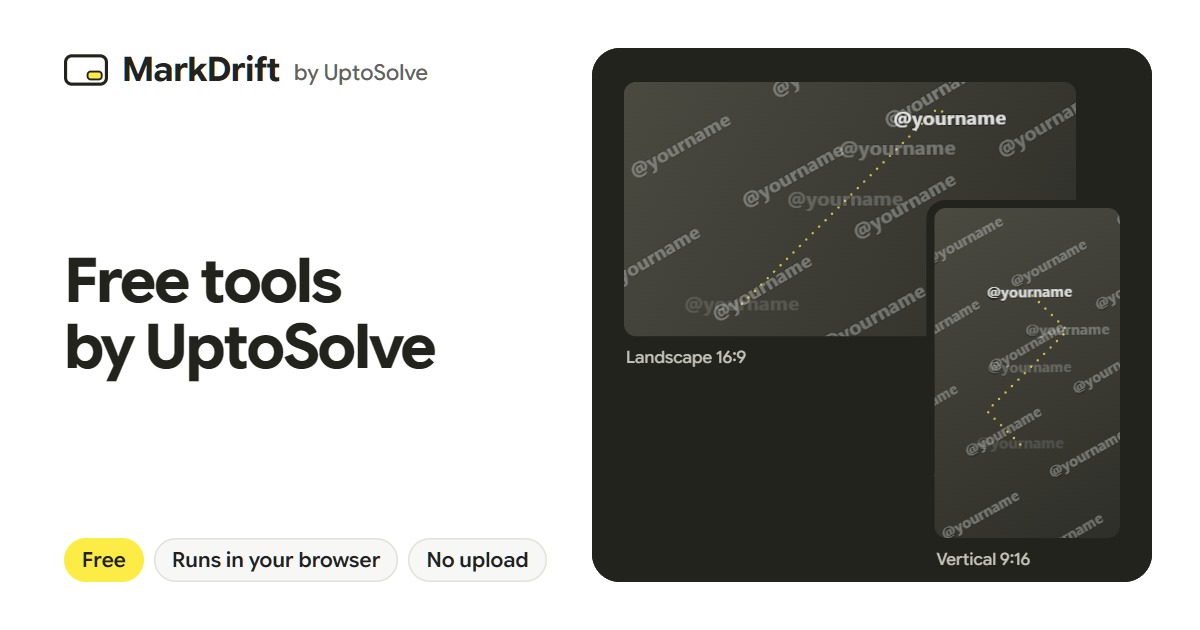
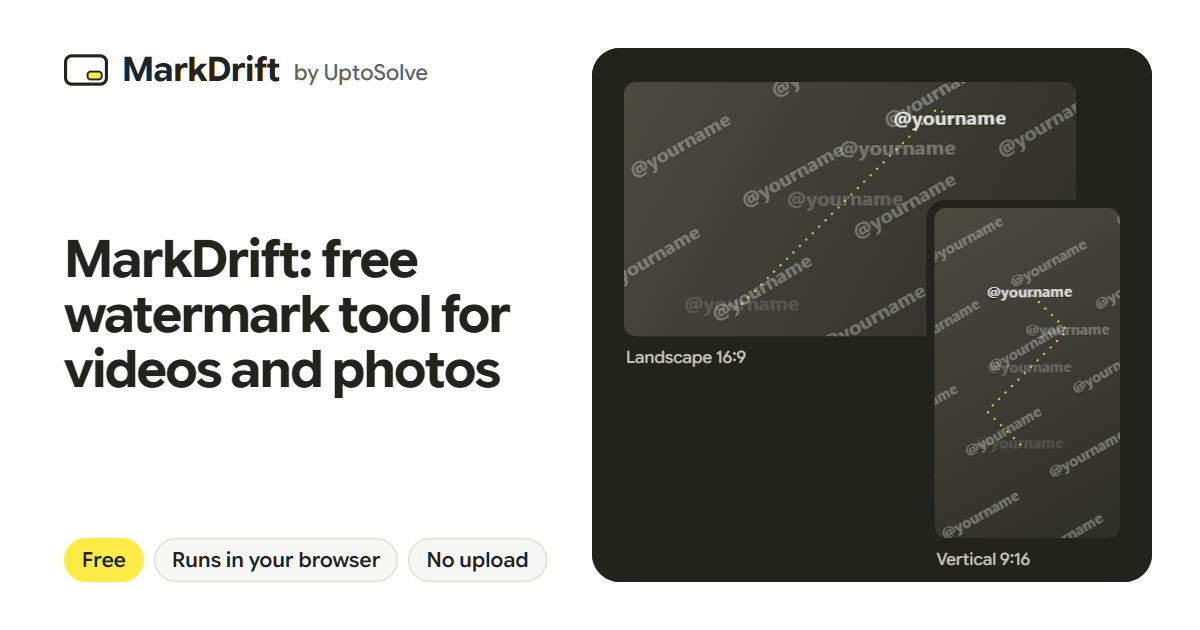
Search and speed fixes, Firefox MP4 retry
- One named WebApplication (MarkDrift) in structured data; tool pages and
  guides point at it
- 301 redirects for URLs typed without the trailing slash
- Long cache headers for fonts, OG images, favicon and sitemap
- Load the video engine when someone reaches for the drop zone, not at idle
- Throttle the hero demo and stop reading layout every frame
- Hub page leads with what MarkDrift is; tool pages name it up front
- Firefox: if the hardware encoder refuses H.264, retry in software before
  falling back to WebM

Changed region(s): [[0.0308, 0.3619, 0.4317, 0.6333]]

diff --git a/content/tools.html b/content/tools.html
@@ -1,12 +1,25 @@
 <h2>MarkDrift: the watermark tool</h2>
-<p>MarkDrift puts your name or logo on videos and photos, one file or a whole batch, right in your browser. We built it for creators and small shops who post a lot of short video and want their name on every clip. The tools we looked at first either charged credits, added their own watermark, or made you upload your files. This one does none of that. Your files stay on your device, and the result carries your mark and no mark of ours.</p>
+<p>MarkDrift is a free, open-source (MIT) watermark tool by UptoSolve that adds moving, tiled or corner watermarks to videos and photos, one file or a whole batch, entirely in your browser with nothing uploaded.</p>
+<p>We built it for creators and small shops who post a lot of short video and want their name on every clip. The tools we looked at first either charged credits, added their own watermark, or made you upload your files. MarkDrift charges no credits, adds no watermark of its own and never uploads your files.</p>
+<h2>MarkDrift at a glance</h2>
+<ul>
+<li><strong>Price:</strong> free, with no account and no sign-up.</li>
+<li><strong>Upload:</strong> none. Videos and photos are processed by your browser on your own device.</li>
+<li><strong>Video in:</strong> MP4, MOV, WebM and MKV. <strong>Video out:</strong> H.264 MP4 (WebM if the browser can't make MP4).</li>
+<li><strong>Photos in:</strong> JPG, PNG and WebP. <strong>Out:</strong> the same format, or one ZIP for a batch.</li>
+<li><strong>Watermark:</strong> your text or a PNG, SVG, WebP or JPG logo.</li>
+<li><strong>Styles:</strong> Hardest to remove (faint tiles plus a moving mark), Moving, Tiled, Jumping and Corner.</li>
+<li><strong>Batches:</strong> no limit on the number of files; vertical and landscape videos can be mixed.</li>
+<li><strong>Browsers:</strong> Chrome and Edge 94+, Safari 17+, Firefox 130+ on desktop.</li>
+<li><strong>Source code:</strong> open source under the MIT licence at <a href="https://github.com/uptosolve/markdrift">github.com/uptosolve/markdrift</a>.</li>
+</ul>
 <p>Each page below opens the same tool, set up for a different job, with its own how-to underneath.</p>
 <ul>
 <li><a href="/tools/watermark-video/">Add a watermark to a video</a>: the main tool. Text or logo, five styles, MP4 out.</li>
 <li><a href="/tools/moving-watermark/">Moving watermark maker</a>: a mark that glides, bounces or jumps around the frame, so a crop can't remove it.</li>
 <li><a href="/tools/batch-watermark-videos/">Watermark many videos at once</a>: one setting for a whole folder of Reels or TikToks, vertical and landscape mixed.</li>
 <li><a href="/tools/watermark-photos/">Watermark photos</a>: tiled or corner marks on JPG, PNG and WebP, with batches returned as a ZIP.</li>
-<li><a href="/tools/add-logo-to-video/">Add a logo to a video</a>: your PNG logo in a corner, turned white if you like.</li>
+<li><a href="/tools/add-logo-to-video/">Add a logo to a video</a>: a PNG, SVG, WebP or JPG logo in a corner, turned white if you like.</li>
 </ul>
 
 <h2>Guides</h2>

diff --git a/content/moving-watermark.html b/content/moving-watermark.html
@@ -1,5 +1,5 @@
 <h2>A watermark that won't stay put</h2>
-<p>A logo in the corner comes off with one crop. A mark that travels across the frame is a different problem for a reposter, because there's no strip of the picture it stays out of. Cropping it means cutting into the video, and blurring it means smearing a path through the whole clip.</p>
+<p>MarkDrift's moving watermark glides across the frame and bounces off the edges, so there's no corner to crop away. A logo in the corner comes off with one crop. A mark that travels across the frame is a different problem for a reposter, because there's no strip of the picture it stays out of. Cropping it means cutting into the video, and blurring it means smearing a path through the whole clip.</p>
 <p>This page opens the tool with "Moving" selected. Your name or logo glides across the frame and bounces off the edges, the way the old DVD screensaver logo did. Two other styles move as well, and each suits a different kind of video.</p>
 
 <h2>Three kinds of motion</h2>
@@ -21,7 +21,7 @@
 <h2>What "Extra protection" and "Shuffle" are for</h2>
 <p>Many removal tools work by tracking a watermark that looks the same in every frame. "Extra protection" gets in the way of that. The mark's size, angle and transparency change slightly and smoothly over time, so no two frames show exactly the same mark. Set it to zero for a perfectly steady mark, or turn it up for more variation.</p>
 <p>Every pattern is also built from a seed, so the path your mark takes is different from one pattern to the next. That means a removal mask someone builds for one of your videos won't line up with another one. If you don't like where the mark crosses on a particular clip, click "Shuffle" and the preview picks a new path straight away.</p>
-<p>Both make removal harder. Neither makes it impossible. A March 2026 test published by imagecrush.io found that current AI removers beat jitter and tiling on still images. That test covered photos, and we haven't seen a published test of moving marks on video, so treat any watermark as something that slows people down. It turns a quick crop into real work.</p>
+<p>Extra protection and Shuffle make a MarkDrift watermark harder to remove, but not impossible to remove. A March 2026 test published by imagecrush.io found that current AI removers beat jitter and tiling on still images. That test covered photos, and we haven't seen a published test of moving marks on video, so treat any watermark as something that slows people down. It turns a quick crop into real work.</p>
 
 <h2>When motion helps, and when to skip it</h2>
 <p>Go with a moving style when the clip is likely to be saved and reposted, and when the whole frame is the point: a dance, a recipe from above, a before-and-after, a clip from a live show. A reposter can't frame their way around a mark that visits every part of the picture.</p>

diff --git a/index.html b/index.html
@@ -67,7 +67,7 @@
 
       <div class="cart-list" id="cartList" hidden>
         <div class="cart-head">
-          <h2 id="cartTitle">Your files</h2>
+          <h3 id="cartTitle">Your files</h3>
           <div class="switch" role="tablist" aria-label="Show videos or photos">
             <button role="tab" class="tab" id="tab-video" aria-selected="true" data-tab="video">Videos</button>
             <button role="tab" class="tab" id="tab-image" aria-selected="false" data-tab="image">Photos</button>
@@ -87,7 +87,7 @@
         <p class="browser-note" id="browserNote" hidden><span data-icon="alert"></span><span>This browser can't make videos. Photos still work. For videos, use Chrome, Edge or Safari 17 or newer.</span></p>
 
         <section class="step" aria-labelledby="s1">
-          <h2 id="s1"><span class="n">1</span>Your watermark</h2>
+          <h3 id="s1"><span class="n">1</span>Your watermark</h3>
           <div class="seg" role="radiogroup" aria-label="Watermark type">
             <label><input type="radio" name="kind" value="text" data-key="kind" /><span>Text</span></label>
             <label><input type="radio" name="kind" value="image" data-key="kind" /><span>Logo</span></label>
@@ -115,7 +115,7 @@
         </section>
 
         <section class="step" aria-labelledby="s2">
-          <h2 id="s2"><span class="n">2</span>Style</h2>
+          <h3 id="s2"><span class="n">2</span>Style</h3>
           <div class="styles" role="radiogroup" aria-label="Style">
             <label class="style"><input type="radio" name="mode" value="combo" data-key="mode" />
               <span class="style-row">
@@ -160,7 +160,7 @@
         </section>
 
         <section class="step" aria-labelledby="s3">
-          <h2 id="s3"><span class="n">3</span>Size and strength</h2>
+          <h3 id="s3"><span class="n">3</span>Size and strength</h3>
           <div class="seg three" role="radiogroup" aria-label="Size" id="sizeSeg">
             <label><input type="radio" name="sizePreset" value="3.5" /><span>Small</span></label>
             <label><input type="radio" name="sizePreset" value="5" /><span>Medium</span></label>

diff --git a/src/style.css b/src/style.css
@@ -43,7 +43,7 @@ body {
 }
 [hidden] { display: none !important; }
 button, input, select, summary { font: inherit; color: inherit; }
-h2 { margin: 0; }
+h2, h3 { margin: 0; }
 ::selection { background: var(--accent); color: #23231e; }
 html { scrollbar-color: #c8c7bf transparent; }
 .order-body, .queue { scrollbar-width: thin; scrollbar-color: #c8c7bf transparent; }
@@ -117,7 +117,7 @@ input, textarea { caret-color: var(--ink); }
 /* ---------- the cart ---------- */
 .cart-list { border: 1px solid var(--line); border-radius: var(--r2); padding: 14px 14px 10px; }
 .cart-head { display: flex; align-items: center; gap: 12px; padding: 0 2px 4px; flex-wrap: wrap; }
-.cart-head h2 { font-size: 1rem; font-weight: 600; }
+.cart-head h2, .cart-head h3 { font-size: 1rem; font-weight: 600; }
 .cart-head .btn { margin-left: auto; }
 .cart-sum { margin: 0 2px 10px; color: var(--soft); font-size: 0.8125rem; }
 .switch { display: inline-flex; background: var(--field); border-radius: var(--r3); padding: 3px; }
@@ -168,7 +168,7 @@ input, textarea { caret-color: var(--ink); }
 .order-body { overflow-y: auto; padding: 4px 20px 8px; overscroll-behavior: contain; }
 .order-body.fade { -webkit-mask-image: linear-gradient(to bottom, #000 calc(100% - 36px), transparent); mask-image: linear-gradient(to bottom, #000 calc(100% - 36px), transparent); }
 .step { padding: 12px 0 14px; display: flex; flex-direction: column; gap: 10px; border-bottom: 1px solid var(--hair); }
-.step h2 { display: flex; align-items: center; gap: 10px; font-size: 1rem; font-weight: 600; letter-spacing: -0.01em; }
+.step h2, .step h3 { display: flex; align-items: center; gap: 10px; font-size: 1rem; font-weight: 600; letter-spacing: -0.01em; }
 .n {
   width: 22px; height: 22px; border-radius: var(--r3); background: var(--ink); color: var(--page);
   display: grid; place-items: center; font-size: 0.75rem; font-weight: 600; flex: none;

diff --git a/content/batch-watermark-videos.html b/content/batch-watermark-videos.html
@@ -1,5 +1,5 @@
 <h2>One watermark for the whole shoot</h2>
-<p>If you post every day, you rarely have one video to mark. You have fifteen Reels from Saturday's shoot, some filmed vertical, some landscape, a couple in 4K and a screen recording at 720p. This page sets the tool up for that job. Add them all, pick one set of settings, press one button, and walk away while they finish.</p>
+<p>MarkDrift can watermark many videos at once, for free, with one set of settings for the whole batch. If you post every day, you rarely have one video to mark. You have fifteen Reels from Saturday's shoot, some filmed vertical, some landscape, a couple in 4K and a screen recording at 720p. This page sets the tool up for that job. Add them all, pick one set of settings, press one button, and walk away while they finish.</p>
 <p>You don't have to fix anything per file. Every size in the tool is measured against the short side of each frame, so a Medium mark looks the same on a 720p vertical clip as on a 4K landscape one. Phone videos saved with rotation info come out the right way up.</p>
 
 <h2>How to watermark many videos at once</h2>
@@ -27,7 +27,7 @@
 <h2>Batch questions</h2>
 <details>
 <summary>How many videos can I do at once?</summary>
-<p>There's no fixed number in the tool. The real limits are time and disk space on your device. Long batches of 4K footage are better on a computer than on a phone.</p>
+<p>MarkDrift has no limit on the number of files in a batch. The practical limits are time and disk space on your device. Long batches of 4K footage are better on a computer than on a phone.</p>
 </details>
 <details>
 <summary>Why does Chrome ask me to pick a folder?</summary>

diff --git a/src/main.js b/src/main.js
@@ -688,8 +688,14 @@ function demoFrame(ctx, x, y, w, h, t, s, i, label) {
   ctx.textBaseline = 'top';
   ctx.fillText(label, x, y + h + labelPx * 0.7);
 }
+let demoRect = null;
+let demoLast = 0;
+if ('ResizeObserver' in window) new ResizeObserver(() => { demoRect = null; }).observe(el.demo);
 function drawDemo() {
-  const rect = el.demo.getBoundingClientRect();
+  const now = performance.now();
+  if (now - demoLast < 33) return;
+  demoLast = now;
+  const rect = demoRect || (demoRect = el.demo.getBoundingClientRect());
   if (!rect.width) return;
   const dpr = Math.min(2, window.devicePixelRatio || 1);
   const W = Math.round(rect.width * dpr), H = Math.round(rect.height * dpr);
@@ -1302,4 +1308,6 @@ restoreLogo().then((ok) => {
 });
 
 // warm up the video engine in the background so the first drop feels instant
-(window.requestIdleCallback || ((f) => setTimeout(f, 1500)))(() => { if (canEncode) videoEngine().catch(() => {}); });
+const warmEngine = () => { if (canEncode) videoEngine().catch(() => {}); };
+for (const ev of ['pointerenter', 'focusin', 'touchstart']) el.drop.addEventListener(ev, warmEngine, { once: true, passive: true });
+document.addEventListener('dragenter', warmEngine, { once: true });

diff --git a/content/watermark-video.html b/content/watermark-video.html
@@ -1,5 +1,5 @@
 <h2>Put your name on a video before someone else posts it</h2>
-<p>Type your name or @handle, drop in a video, and you get back an MP4 with your mark in every frame. The tool above does the whole job inside this browser tab. Your video never goes to a server, you don't make an account, and the file that comes back carries your mark and nothing else.</p>
+<p>MarkDrift adds your name or logo to a video for free. Type your name or @handle, drop in a video, and you get back an MP4 with your mark in every frame. The tool above does the whole job inside this browser tab. Your video never goes to a server, you don't make an account, and the file that comes back carries your mark and nothing else.</p>
 <p>It opens on the "Hardest to remove" style: faint copies of your mark spread over the whole frame, plus one clear copy that drifts around. That's the style we'd use for anything posted publicly, because a mark parked in a corner is the first thing a reposter crops off. If you only want a neat logo in one spot, switch to "Corner". It takes the same few clicks.</p>
 
 <h2>How to add a watermark to a video</h2>

diff --git a/content/watermark-photos.html b/content/watermark-photos.html
@@ -1,5 +1,5 @@
 <h2>Mark a whole set of product photos in one go</h2>
-<p>Product shots, portfolio images, a carousel for Instagram: photos get lifted even more easily than videos, because one screenshot is all it takes. This page opens the tool on the "Photos" tab with the "Tiled" style, which repeats your name or logo across the whole picture. A crop can't cut a tiled mark out, because there's no clean edge of the image to crop to.</p>
+<p>MarkDrift watermarks photos for free, one at a time or a whole batch returned as a ZIP. Product shots, portfolio images, a carousel for Instagram: photos get lifted even more easily than videos, because one screenshot is all it takes. This page opens the tool on the "Photos" tab with the "Tiled" style, which repeats your name or logo across the whole picture. A crop can't cut a tiled mark out, because there's no clean edge of the image to crop to.</p>
 <p>Drop in one photo and you get one photo back. Drop in forty and they come back together in a single ZIP, each one marked with the same settings.</p>
 
 <h2>How to watermark photos in a batch</h2>

diff --git a/content/add-logo-to-video.html b/content/add-logo-to-video.html
@@ -1,5 +1,5 @@
 <h2>Your logo on the video, and no one else's</h2>
-<p>A lot of "free" video editors will happily put your logo on a clip and then stamp their own logo next to it unless you pay. This one doesn't. The tool above opens with "Logo" selected and the "Corner" style set to the bottom right, which is the classic spot for a brand mark. You choose your logo file, check the preview, and download a video whose only logo is yours.</p>
+<p>MarkDrift adds your logo to a video for free and adds no logo of its own. A lot of "free" video editors will happily put your logo on a clip and then stamp their own logo next to it unless you pay. This one doesn't. The tool above opens with "Logo" selected and the "Corner" style set to the bottom right, which is the classic spot for a brand mark. You choose your logo file, check the preview, and download a video whose only logo is yours.</p>
 <p>It all runs in your browser, so your footage and your logo stay on your device. There's no account and nothing to pay for.</p>
 
 <h2>How to add a logo to a video</h2>

diff --git a/src/video.js b/src/video.js
@@ -127,6 +127,13 @@ export async function exportVideo(file, settings, logo, { onProgress, writable, 
   checkCancel();
   let ext = 'mp4';
   let mime = 'video/mp4';
+  // a busy hardware encoder can refuse H.264 for a moment; software usually still takes it
+  if ((!built.conversion.isValid || !hasVideo(built.conversion)) && !softwareEncode) {
+    built.input.dispose?.();
+    preferSoftwareDecoding();
+    built = await buildConversion(file, settings, logo, mp4, writable);
+    checkCancel();
+  }
   if (!built.conversion.isValid || !hasVideo(built.conversion)) {
     built.input.dispose?.();
     if (writable) {

diff --git a/vite.config.js b/vite.config.js
@@ -71,6 +71,8 @@ const siteExtras = {
   closeBundle() {
     const headers = path.join(DIST, 'tools', '_headers');
     if (fs.existsSync(headers)) fs.renameSync(headers, path.join(DIST, '_headers'));
+    const redirects = path.join(SITE, '.meta', '_redirects');
+    if (fs.existsSync(redirects)) fs.copyFileSync(redirects, path.join(DIST, '_redirects'));
   },
 };
 
